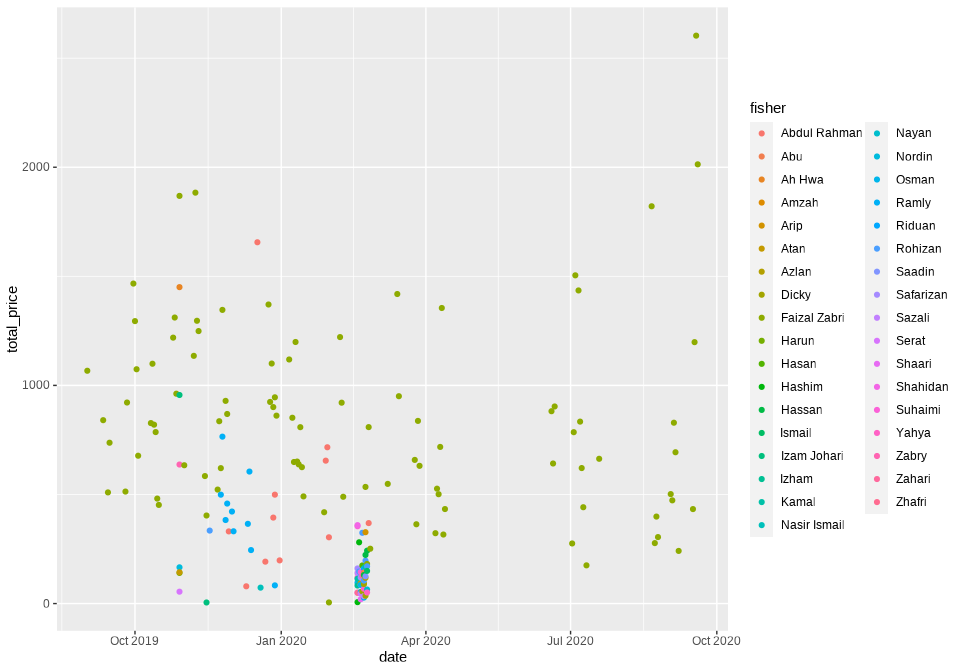
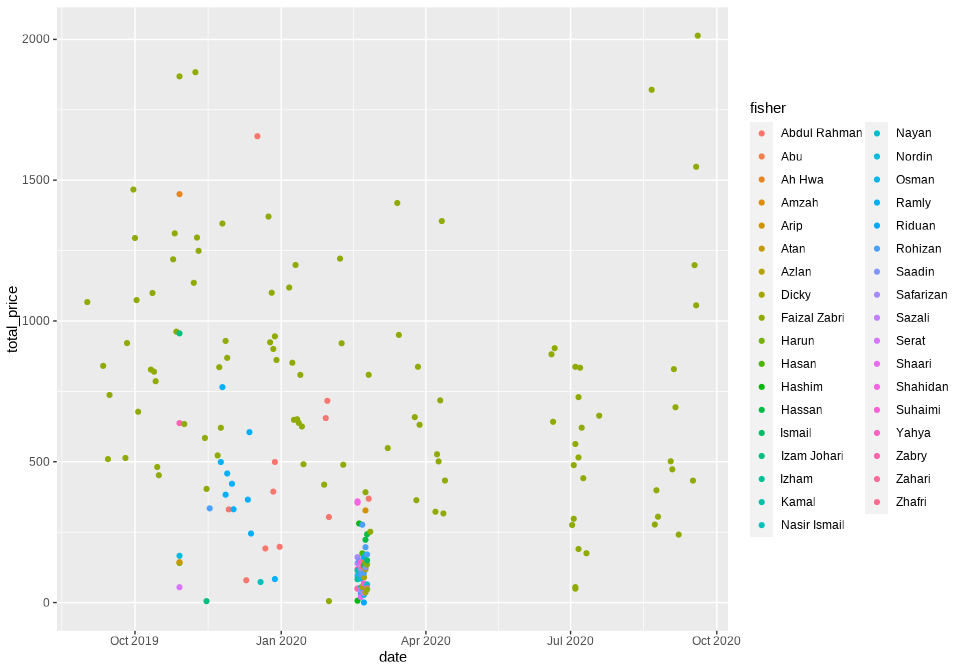
Update report

diff --git a/README.md b/README.md
@@ -2,7 +2,7 @@ Penang fisheries
 ================
 
 We report data collected between 01 September 2019 and 31 August 2020.
-During this year we recorded information about 713 fishing trips in
+During this year we recorded information about 724 fishing trips in
 Penang. The information about these trips was contributed by a total of
 46 local fishers and is a combination of tracking and landings.
 
@@ -17,13 +17,13 @@ these units tracked a total of 645 trips.
 In addition to the tracking data, we also collected landings data. Data
 collection was performed informally through a WhatsApp group set up with
 participating fishers. In total, we collected landings information for
-166 trips by 35 fishers.
+177 trips by 35 fishers.
 
 Three of the fishers that contributed landings data also had a tracker
 installed on their boats. Consequently we have both tracking and landing
 data for 98 trips. Most of the landing data, however, comes from the
 single most active fisher in the group. This fisher alone contributed
-landing data for 87 trips which corresponds to about 60% of all their
+landing data for 95 trips which corresponds to about 62% of all their
 fishing trips over the reporting period.
 
 ![](README_files/figure-gfm/tracks-figure-1.png)<!-- -->
@@ -52,24 +52,24 @@ involved in the calculation.
 
 First, we look at the expected catch weight from a single trip. There
 was a lot of variability in the catch weight with some trips fishing as
-little as 0.6kg and some as much as 200kg. Nevertheless, using ten
+little as 0.4kg and some as much as 200kg. Nevertheless, using ten
 thousand Monte Carlo simulations in our Bayesian models, we found that
-the average catch was very likely between 7.7kg and 17kg (90% credible
-intervals, mean 11.8kg). The average catch showed important differences
+the average catch was very likely between 10kg and 23.7kg (90% credible
+intervals, mean 15.9kg). The average catch showed important differences
 among fishers, with some consistently landing more catch by weight than
 the average. More data from a larger number of fishers will allow us to
 better understand what drives these differences.
 
 Second, we look at the expected income obtained from a fishing trip. We
 found that each fishing trip was very likely to provide an income
-between RM154 and RM326 (mean RM228) to artisanal fishers. Similar as
+between RM174 and RM443 (mean RM288) to artisanal fishers. Similar as
 the catch weight, average income levels showed a large variation. Some
-trips provided only RM5 as income for the fishers while some trips
+trips provided only RM0 as income for the fishers while some trips
 provided as much as RM1884.
 
 Third, we investigate the vessel activity coefficient during the study
 period. We found that this coefficient was very likely to be between
-0.33 and 0.51 (mean 0.42). Mathematically, this coefficient can be
+0.36 and 0.54 (mean 0.45). Mathematically, this coefficient can be
 interpreted in two (equivalent) ways. When applied to a single boat, it
 can be interpreted as the probability that this boat would to a fishing
 trip in a given day. When applied to a group of boats, for example the
@@ -89,9 +89,9 @@ in all estimates we present.
 
 Using all these pieces of information we estimate that between the
 period 01 September 2019 and 31 August 2020 **artisanal fishers were
-very likely (90% probability) to catch between 2 and 4.7 thousand tonnes
-in Penang waters, which provided income between RM39 and RM89 million to
-the local communities**.
+very likely (90% probability) to catch between 2.9 and 7.3 thousand
+tonnes in Penang waters, which provided income between RM49 and RM135
+million to the local communities**.
 
 ![](README_files/figure-gfm/annual-figure-1.png)<!-- -->
 
@@ -127,7 +127,7 @@ sufficient quality*.
 ![](README_files/figure-gfm/unnamed-chunk-3-1.png)<!-- -->
 
 ![](README_files/figure-gfm/unnamed-chunk-4-1.png)<!-- --> Between 01
-September 2019 and 19 September 2020 we recorded landings for 175 trips
+September 2019 and 19 September 2020 we recorded landings for 187 trips
 by 35 fishers.
 
 During this time, GPS trackers were installed in 3 boats.
